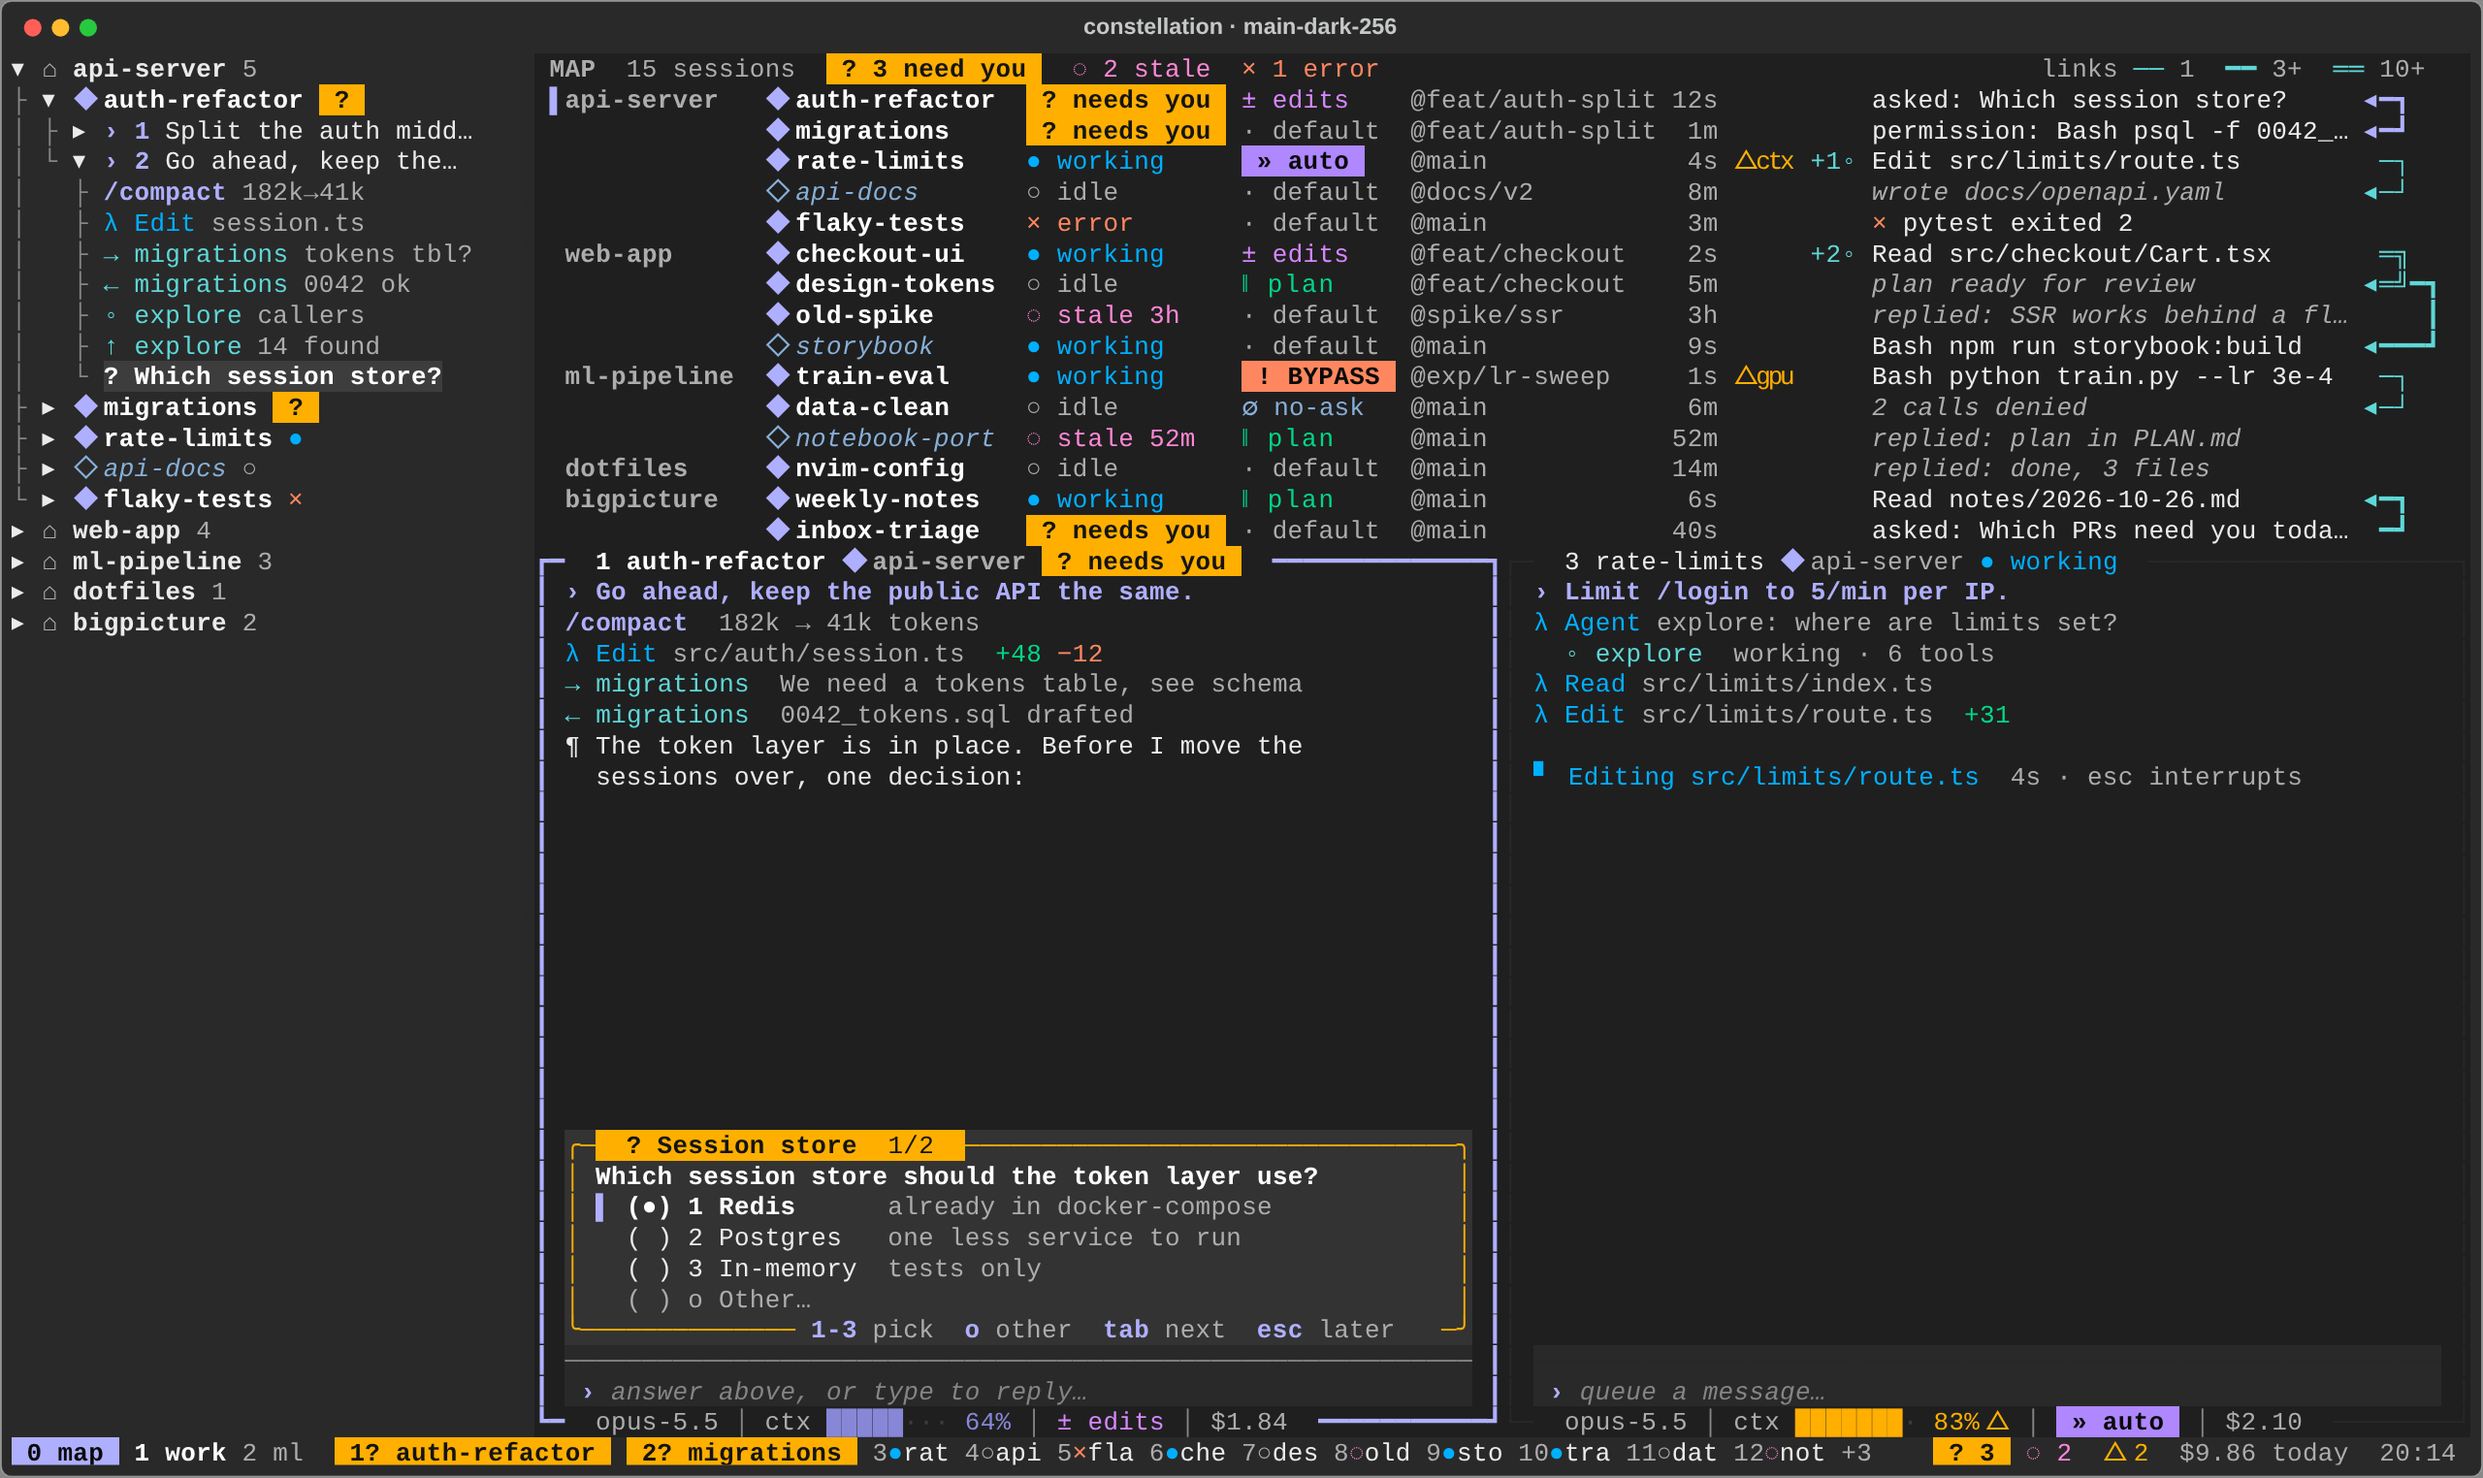
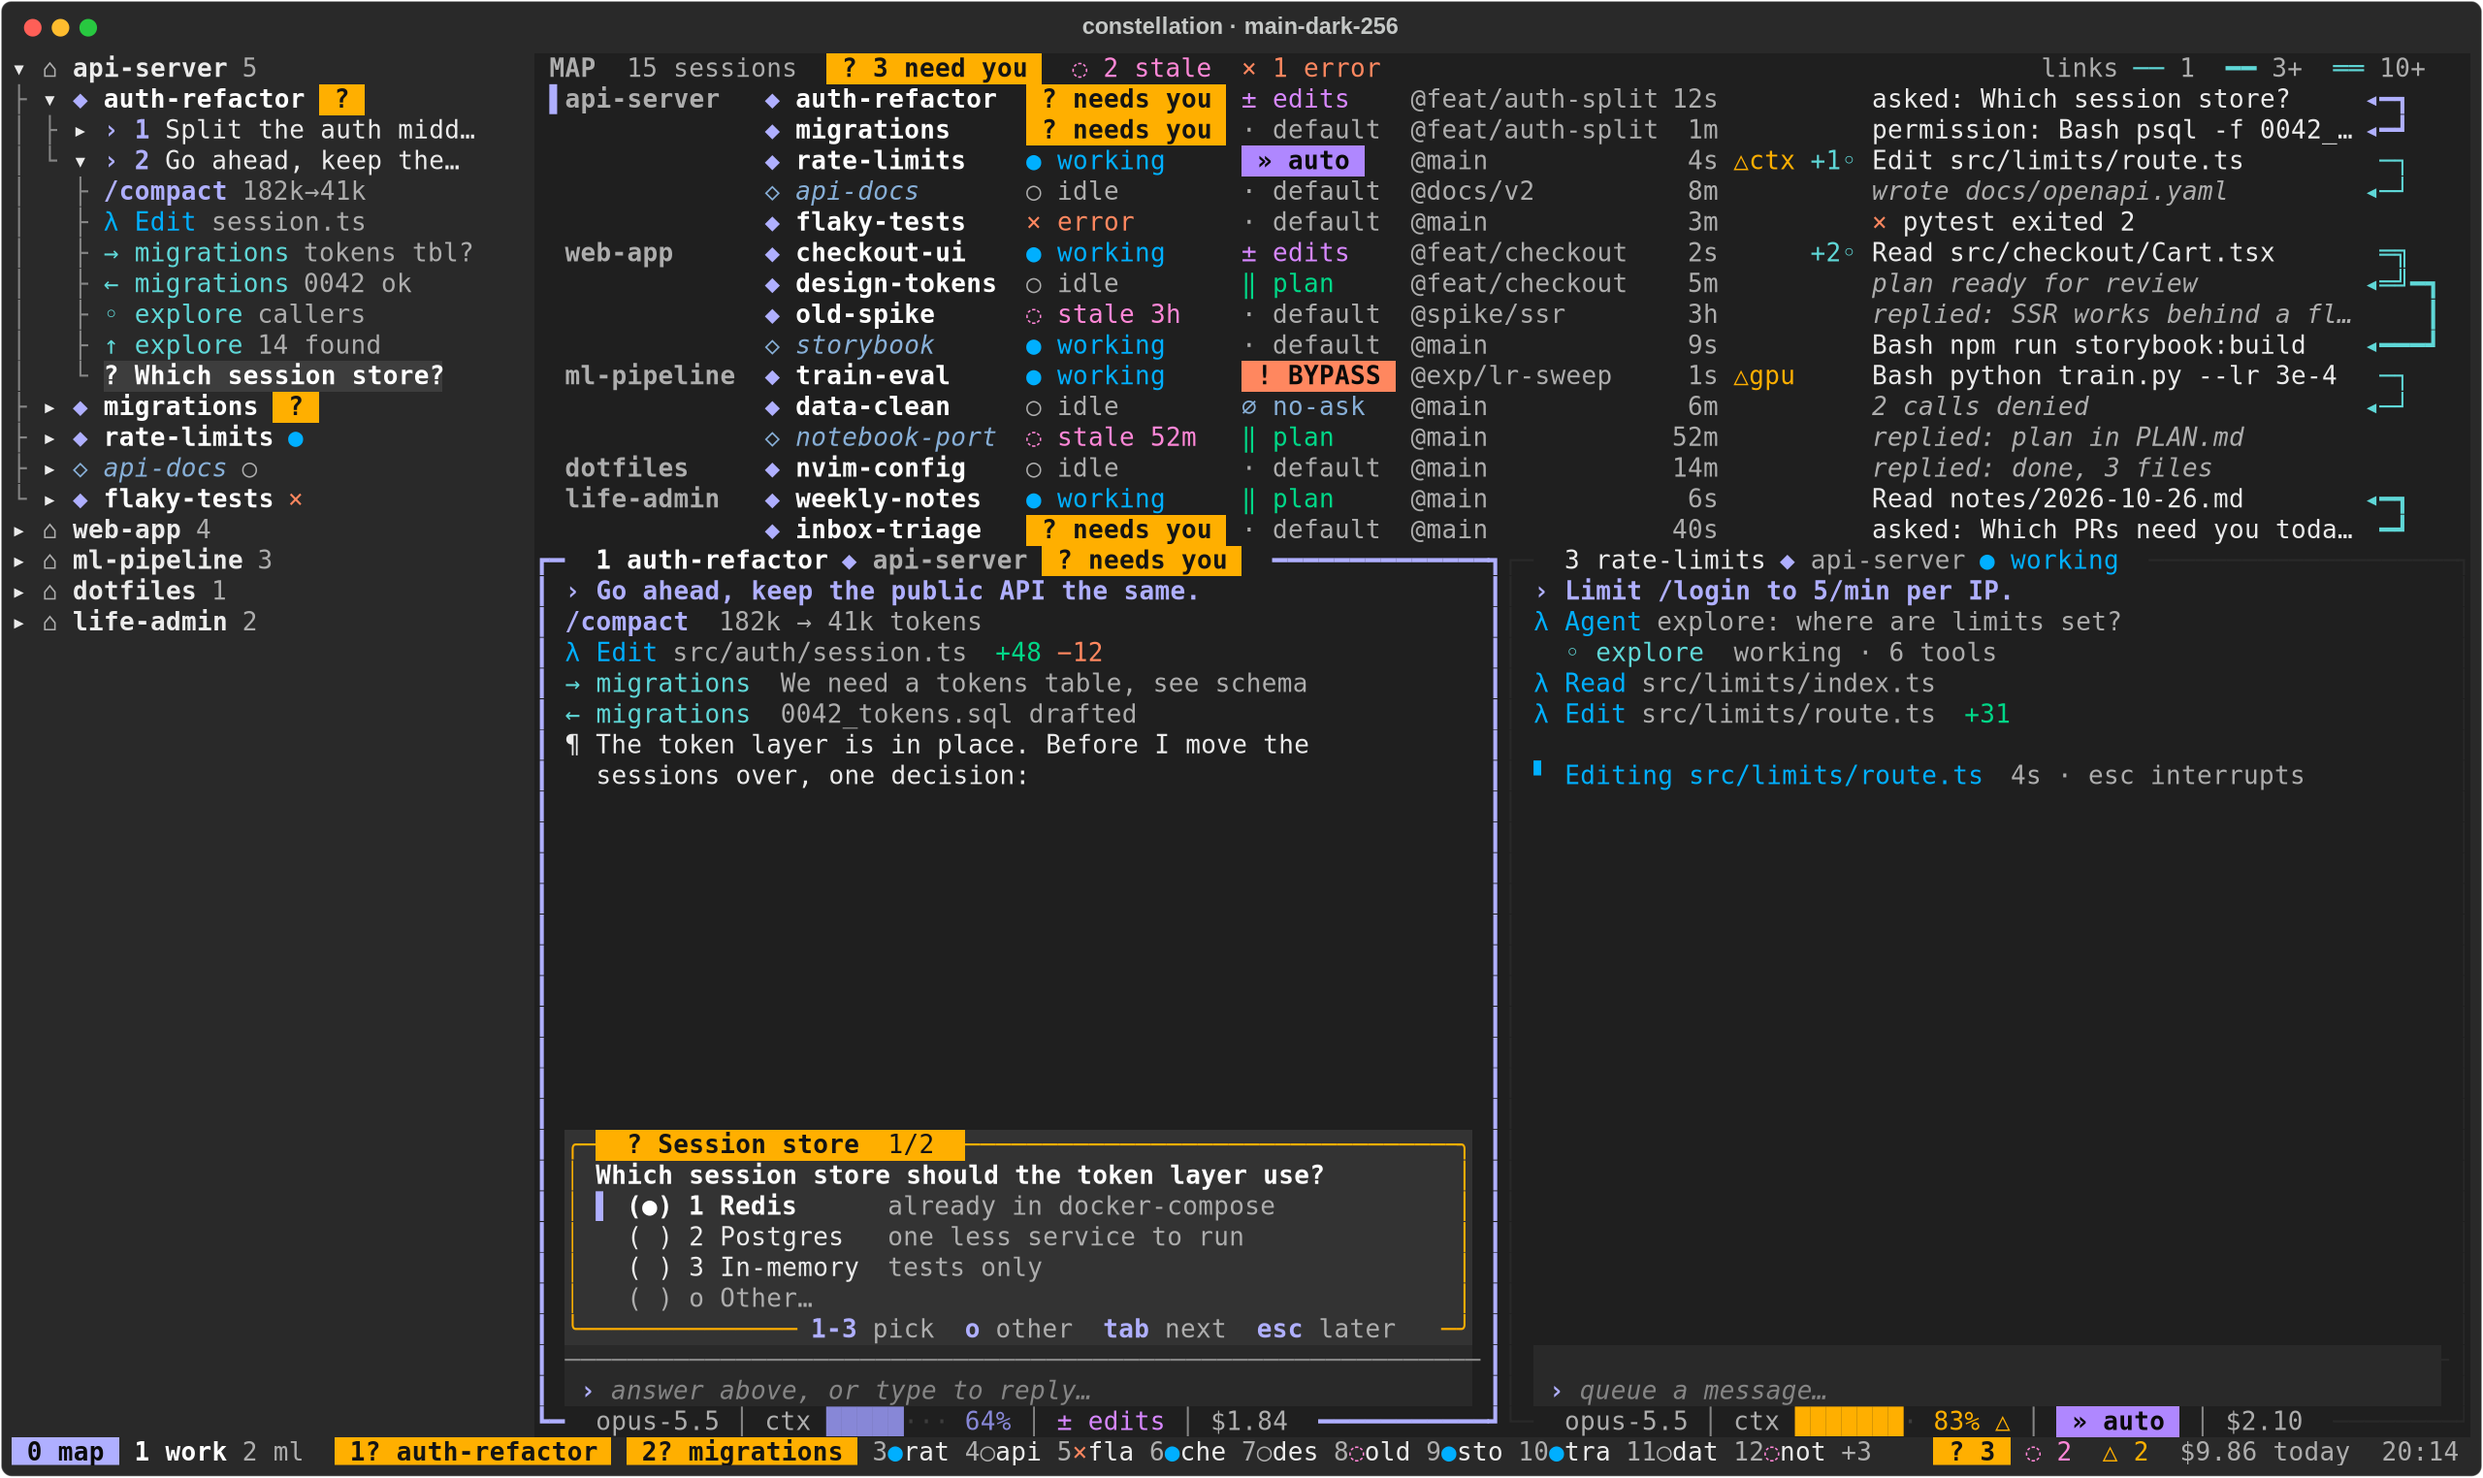
Design system: use a neutral example project name
Renames the example project in the screen mockups, the TUI specimen and
the launcher preview, and re-renders the specimen screenshots from the
specimen itself (DejaVu Sans Mono, 2560 px wide, as before).

diff --git a/design-system/components/SessionLauncher/preview.html b/design-system/components/SessionLauncher/preview.html
@@ -7,7 +7,7 @@
 <script>
 const { SessionLauncher, ConfirmStop, TuiFrame, tui } = window.Constellation;
 const models = ["opus-5.5", "sonnet-5.5", "haiku-5.5"];
-const recent = ["~/code/api-server", "~/code/web-app", "~/code/ml-pipeline", "~/bigpicture"];
+const recent = ["~/code/api-server", "~/code/web-app", "~/code/ml-pipeline", "~/life-admin"];
 function Preview() {
   return /* @__PURE__ */ React.createElement("div", { className: "pv" }, /* @__PURE__ */ React.createElement("div", { className: "pv-row" }, /* @__PURE__ */ React.createElement("div", { className: "pv-col" }, /* @__PURE__ */ React.createElement("div", { className: "pv-cap" }, "launcher · folder focused"), /* @__PURE__ */ React.createElement(SessionLauncher, { folder: "~/code/api-server", recent, name: "api-server-3", models, model: "opus-5.5", mode: "acceptEdits", focus: "folder", prompt: "Add request ids to every log line" })), /* @__PURE__ */ React.createElement("div", { className: "pv-col" }, /* @__PURE__ */ React.createElement("div", { className: "pv-cap" }, "launcher · bypass chosen: type the folder name to enable Start"), /* @__PURE__ */ React.createElement(SessionLauncher, { folder: "~/code/ml-pipeline", name: "lr-sweep", models, model: "opus-5.5", mode: "bypassPermissions", focus: "mode", bypassConfirm: "ml-pip" }))), /* @__PURE__ */ React.createElement("div", { className: "pv-row" }, /* @__PURE__ */ React.createElement("div", { className: "pv-col" }, /* @__PURE__ */ React.createElement("div", { className: "pv-cap" }, "stop · names what is lost"), /* @__PURE__ */ React.createElement(ConfirmStop, { name: "auth-refactor", waiting: 1, subagents: 1 })), /* @__PURE__ */ React.createElement("div", { className: "pv-col" }, /* @__PURE__ */ React.createElement("div", { className: "pv-cap" }, "terminal"), /* @__PURE__ */ React.createElement(TuiFrame, { cols: 58, lines: [
     ...tui.box({

diff --git a/design-system/assets/Source/constellation_specimen.py b/design-system/assets/Source/constellation_specimen.py
@@ -82,9 +82,9 @@ SESSIONS = [
             "Port notebooks to scripts", "replied: plan in PLAN.md", kind="external"),
     Session(13, "nvim-config", "dotfiles", "idle", "default", "main", "14m",
             "Move lsp config to lazy.nvim", "replied: done, 3 files", model="haiku-5.5"),
-    Session(14, "weekly-notes", "bigpicture", "working", "plan", "main", "6s",
+    Session(14, "weekly-notes", "life-admin", "working", "plan", "main", "6s",
             "Draft the weekly update", "Read notes/2026-10-26.md", ctx=33, cost="$0.27"),
-    Session(15, "inbox-triage", "bigpicture", "waiting", "default", "main", "40s",
+    Session(15, "inbox-triage", "life-admin", "waiting", "default", "main", "40s",
             "Triage the review queue", "asked: Which PRs need you today?", ctx=26),
 ]
 BY_NAME = {s.name: s for s in SESSIONS}

diff --git a/design-system/06-screens.md b/design-system/06-screens.md
@@ -19,11 +19,11 @@ The mockups below are not drawn by hand. They are the text output of `constellat
 ├ ▸ ◆ migrations  ?              │               ◆ data-clean     ○ idle        ∅ no-ask   @main             6m          2 calls denied                  ◂─┘
 ├ ▸ ◆ rate-limits ●              │               ◇ notebook-port  ◌ stale 52m   ‖ plan     @main            52m          replied: plan in PLAN.md
 ├ ▸ ◇ api-docs ○                 │  dotfiles     ◆ nvim-config    ○ idle        · default  @main            14m          replied: done, 3 files
-└ ▸ ◆ flaky-tests ×              │  bigpicture   ◆ weekly-notes   ● working     ‖ plan     @main             6s          Read notes/2026-10-26.md        ◂━┓
+└ ▸ ◆ flaky-tests ×              │  life-admin   ◆ weekly-notes   ● working     ‖ plan     @main             6s          Read notes/2026-10-26.md        ◂━┓
 ▸ ⌂ web-app 4                    │               ◆ inbox-triage    ? needs you  · default  @main            40s          asked: Which PRs need you toda…  ━┛
 ▸ ⌂ ml-pipeline 3                │┏━  1 auth-refactor ◆ api-server  ? needs you   ━━━━━━━━━━━━━━┓┌─  3 rate-limits ◆ api-server ● working  ────────────────────┐
 ▸ ⌂ dotfiles 1                   │┃ › Go ahead, keep the public API the same.                   ┃│ › Limit /login to 5/min per IP.                             │
-▸ ⌂ bigpicture 2                 │┃ /compact  182k → 41k tokens                                 ┃│ λ Agent explore: where are limits set?                      │
+▸ ⌂ life-admin 2                 │┃ /compact  182k → 41k tokens                                 ┃│ λ Agent explore: where are limits set?                      │
                                  │┃ λ Edit src/auth/session.ts  +48 −12                         ┃│   ◦ explore  working · 6 tools                              │
                                  │┃ → migrations  We need a tokens table, see schema            ┃│ λ Read src/limits/index.ts                                  │
                                  │┃ ← migrations  0042_tokens.sql drafted                       ┃│ λ Edit src/limits/route.ts  +31                             │
@@ -96,7 +96,7 @@ Reading it top to bottom, left to right:
 ## Permission prompt and `/` menu (TUI, 132 × 26)
 
 ```text
-┏━  2 migrations ◆ api-server  ? needs you   ━━━━━━━━━━━━━━━━━━━━┓┌─  14 weekly-notes ◆ bigpicture ● working  ─────────────────────┐
+┏━  2 migrations ◆ api-server  ? needs you   ━━━━━━━━━━━━━━━━━━━━┓┌─  14 weekly-notes ◆ life-admin ● working  ─────────────────────┐
 ┃ › Write the token-table migration, then apply it.              ┃│ › Draft the weekly update from this week's notes.              │
 ┃ λ Write migrations/0042_tokens.sql  +22                        ┃│ λ Read notes/2026-10-26.md                                     │
 ┃ ¶ Written. Applying it to the local database:                  ┃│ ← inbox-triage  3 PRs need review by Friday                    │
@@ -146,11 +146,11 @@ The same main screen with `CONSTELLATION_GLYPHS=ascii`. Every state still reads.
 | + + migrations  ?              │               + data-clean     o idle        0 no-ask   @main             6m          2 calls denied                  <-+
 | + + rate-limits *              │               : notebook-port  ~ stale 52m   = plan     @main            52m          replied: plan in PLAN.md
 | + : api-docs o                 │  dotfiles     + nvim-config    o idle        . default  @main            14m          replied: done, 3 files
-` + + flaky-tests x              │  bigpicture   + weekly-notes   * working     = plan     @main             6s          Read notes/2026-10-26.md        <=+
+` + + flaky-tests x              │  life-admin   + weekly-notes   * working     = plan     @main             6s          Read notes/2026-10-26.md        <=+
 + = web-app 4                    │               + inbox-triage    ? needs you  . default  @main            40s          asked: Which PRs need you toda…  =+
 + = ml-pipeline 3                │┏━  1 auth-refactor + api-server  ? needs you   ━━━━━━━━━━━━━━┓┌─  3 rate-limits + api-server * working  ────────────────────┐
 + = dotfiles 1                   │┃ $ Go ahead, keep the public API the same.                   ┃│ $ Limit /login to 5/min per IP.                             │
-+ = bigpicture 2                 │┃ /compact  182k → 41k tokens                                 ┃│ & Agent explore: where are limits set?                      │
++ = life-admin 2                 │┃ /compact  182k → 41k tokens                                 ┃│ & Agent explore: where are limits set?                      │
                                  │┃ & Edit src/auth/session.ts  +48 −12                         ┃│   + explore  working · 6 tools                              │
                                  │┃ > migrations  We need a tokens table, see schema            ┃│ & Read src/limits/index.ts                                  │
                                  │┃ < migrations  0042_tokens.sql drafted                       ┃│ & Edit src/limits/route.ts  +31                             │
